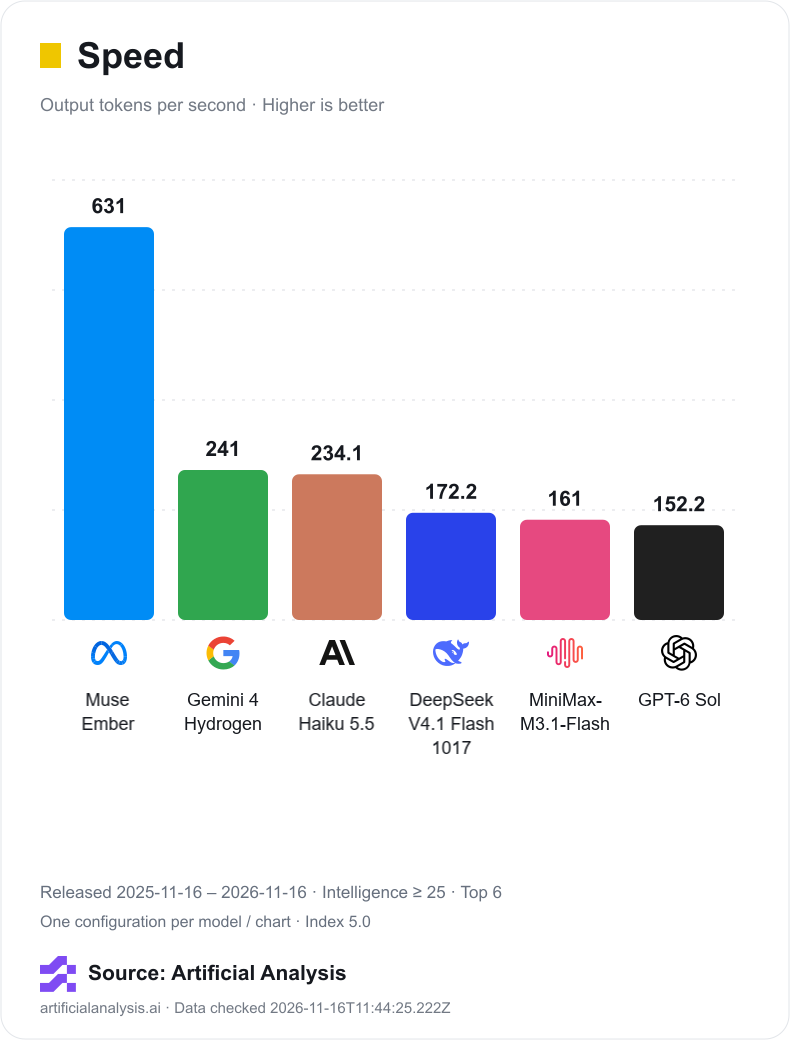
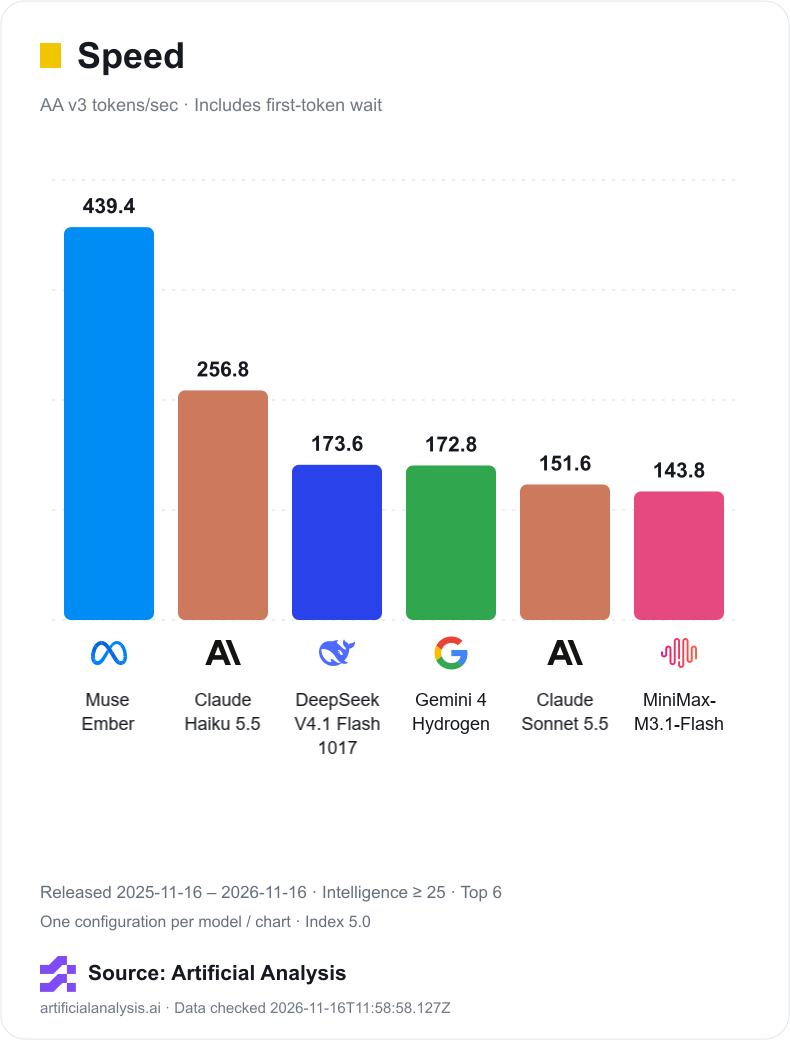
Update public intelligence d9cb8f19a0f5

diff --git a/local-preview.js b/local-preview.js
@@ -1,4 +1,4 @@
-import {capabilityLabels,measuredCatalog,hasModelMetric,filterModels,comparisonBasis,indexVersion,chartAnalysis,DEFAULT_VALUE_MIN_SCORE,estimateCost,rankingPanels} from './model-tools.js?v=bbe34fa3177e24b3d67c49f468d78ee8e26ffe798b95ec0113b7994f40209b3a';
+import {capabilityLabels,measuredCatalog,hasModelMetric,filterModels,comparisonBasis,indexVersion,chartAnalysis,DEFAULT_VALUE_MIN_SCORE,estimateCost,rankingPanels} from './model-tools.js?v=cf31fdb08bd7de38e0b5b088af714d9622508920adb6c241020eabfca84932dc';
 
 const state={fullCatalog:false,query:'',queryDraft:'',creator:'',version:'',sort:'intelligence',mode:'list',page:1,compare:[],selectionOpen:false,minimum:DEFAULT_VALUE_MIN_SCORE,share:50,costModel:'',input:100000,output:10000,runs:1,cache:0,historyPage:1,historyKind:'global_reset',rankingMetric:'intelligence',rankingVersion:'',rankingLimit:6};
 const metrics={intelligence:'综合能力',engineering:'工程指数参考',inputPrice:'输入 $/百万',outputPrice:'输出 $/百万',speed:'输出 Token/s',latency:'首字延迟 s'};
@@ -11,6 +11,7 @@ export async function validPrivateSnapshot(value){
   if(!value||value.schemaVersion!==1||value.scope!=='local-preview-only'||!stamp(value.exportedAt)||!value.models||!value.reset||!Array.isArray(value.models.rows)||value.models.rows.length>1000||!['internal','licensed-public','disabled'].includes(value.models.policy)||!Array.isArray(value.reset.events)||value.reset.events.length>200)return false;
   const validRelease=v=>v==null||typeof v==='string'&&/^\d{4}-\d{2}-\d{2}$/.test(v)&&Number.isFinite(Date.parse(v))&&new Date(v).toISOString().slice(0,10)===v;
   if(value.models.rows.some(m=>Object.keys(capabilityLabels).some(k=>m?.[k]!=null&&(!Number.isFinite(m[k])||m[k]<0))))return false;
+  if(value.models.rows.some(m=>m?.performanceVersion!==undefined&&!['v3','legacy'].includes(m.performanceVersion)))return false;
   const numeric=['intelligence','coding','agentic','math','inputPrice','outputPrice','cachedInputPrice','speed','latency'];
   if(value.models.rows.some(m=>!m||!['id','name','creator'].every(k=>typeof m[k]==='string'&&m[k].length<=250)||numeric.some(k=>m[k]!==null&&(!Number.isFinite(m[k])||m[k]<0))||!stamp(m.fetchedAt)||!stamp(m.measuredAt)||!validRelease(m.releaseDate)||m.sourceUrl!=='https://artificialanalysis.ai/data-api'||!m.brand||m.brand.src!==null&&!/^\/brands\/[a-z0-9-]+\.(?:svg|png)$/.test(m.brand.src)))return false;
   const latest=value.reset.latest;if(latest!=null&&(!stamp(latest.at)||latest.at===null||typeof latest.timeLabel!=='string'||latest.timeLabel.length>80||latest.text!==null&&(typeof latest.text!=='string'||latest.text.length>400)||latest.note!==null&&(typeof latest.note!=='string'||latest.note.length>400)||latest.url!==null&&!knownLink(latest.url)))return false;
@@ -27,7 +28,7 @@ function privateNotice(h,label,stamp,failed,isStale){return h.el('div',{classNam
 function rankingView(models,cache,h){
   const {el,select,render}=h,labels={intelligence:'综合能力'};
   const panels=rankingPanels(models,state.rankingMetric,state.rankingVersion,state.rankingLimit),result=panels.ability;
-  const charts=[{key:'ability',title:labels[state.rankingMetric],note:'近一年发布 · AA 指数 · 越高越好',...result,maximum:result.maximum*1.12},{key:'speed',title:'输出速度',note:'近一年发布 · Token / 秒 · 越高越好',...panels.speed},{key:'cost',title:'API 任务成本',note:'近一年发布 · 输入 10k / 输出 2k · USD / 次',...panels.cost}];
+  const charts=[{key:'ability',title:labels[state.rankingMetric],note:'近一年发布 · AA 指数 · 越高越好',...result,maximum:result.maximum*1.12},{key:'speed',title:'输出速度',note:models.some(m=>m.performanceVersion==='v3')?'近一年发布 · AA v3 · 包含首 Token 等待':'近一年发布 · 历史速度口径',...panels.speed},{key:'cost',title:'API 任务成本',note:'近一年发布 · 输入 10k / 输出 2k · USD / 次',...panels.cost}];
   const change=patch=>{Object.assign(state,patch,{rankingLimit:6});render();};
   const versions=result.versions.map(v=>[v,'能力指数 v'+v]);if(state.rankingVersion&&!result.versions.includes(state.rankingVersion))versions.unshift([state.rankingVersion,'所选版本已不可用']);
   const card=chart=>{
@@ -70,9 +71,9 @@ export function modelCenter(snapshot,h){
   return [rankingView(models,cache,h),privateNotice(h,'缓存采集',cache.fetchedAt,cache.failed,stale(cache.checkedAt??cache.fetchedAt,54)),el('div',{className:'local-model-intro'},el('div',{},el('h2',{},'模型数据，来自你的本地缓存。'),el('p',{className:'subdued'},models.length+' 个模型 · '+new Set(models.map(m=>m.creator)).size+' 个开发商 · 最近成功检查 '+date(cache.checkedAt))),external('https://artificialanalysis.ai/data-api','Artificial Analysis 来源与许可')),h.studentModelGuide?.(),scope,filters,
     state.query||state.creator||state.version?el('div',{className:'filter-recovery'},el('span',{},rows.length+' 个匹配模型'),el('button',{className:'button',onclick:()=>change({query:'',queryDraft:'',creator:'',version:''})},'清除模型筛选')):null,
     analysis.basis.compatible?el('div',{className:'two-column model-spotlights'},strongest?spotlight(strongest,analysis.strongest.length>1?'综合指数并列最高':'当前分组综合指数最高','综合分 '+number(strongest.intelligence)+'；不代表所有任务都最优。'):null,best?spotlight(best,'当前假设下性价比最高','能力门槛 '+state.minimum+'，输出占比 '+state.share+'%。'):null):el('p',{className:'method-note'},analysis.basis.reason+'；选择同一已知指数版本后再比较排名。'),controls,mode,
-    chosen.length?el('div',{className:'comparison-selection'},el('details',{className:'selected-models',open:state.selectionOpen,ontoggle:e=>{state.selectionOpen=e.target.open;}},el('summary',{},'已选 '+chosen.length+' / 4 · 查看与调整'),chosen.map(m=>el('div',{className:'selected-model'},identity(m,h),el('button',{className:'button','aria-label':'移除比较 '+m.name,onclick:()=>{state.compare=state.compare.filter(id=>id!==m.id);render();}},'移除')))),el('button',{className:'button',onclick:()=>{state.compare=[];render();}},'清空比较')):el('p',{className:'subdued'},'在列表中选择 2–4 个模型进行横向比较。'),comparison,content,el('p',{className:'method-note'},'缺失值显示 N/A。价格为 AA 模型级缓存，供应商、地区和服务层级未明确；API 成本与 ChatGPT/Codex 订阅额度分别计算。')];
+    chosen.length?el('div',{className:'comparison-selection'},el('details',{className:'selected-models',open:state.selectionOpen,ontoggle:e=>{state.selectionOpen=e.target.open;}},el('summary',{},'已选 '+chosen.length+' / 4 · 查看与调整'),chosen.map(m=>el('div',{className:'selected-model'},identity(m,h),el('button',{className:'button','aria-label':'移除比较 '+m.name,onclick:()=>{state.compare=state.compare.filter(id=>id!==m.id);render();}},'移除')))),el('button',{className:'button',onclick:()=>{state.compare=[];render();}},'清空比较')):el('p',{className:'subdued'},'在列表中选择 2–4 个模型进行横向比较。'),comparison,content,el('p',{className:'method-note'},'速度口径见模型详情：新采集为 AA v3，包含首 Token 等待；历史缓存保持旧口径。缺失值显示 N/A。价格为 AA 模型级缓存，供应商、地区和服务层级未明确；API 成本与 ChatGPT/Codex 订阅额度分别计算。')];
 }
-function modelList(rows,h){const {el,render,empty}=h,size=12,pages=Math.max(1,Math.ceil(rows.length/size));state.page=Math.min(state.page,pages);if(!rows.length)return empty('没有匹配的模型','调整名称、开发商或指数版本筛选。');return [el('div',{className:'table-wrap local-model-table'},el('table',{'aria-label':'本机模型缓存'},el('thead',{},el('tr',{},['比较','模型','综合','工程参考','输入 / 输出 $','Token/s'].map(t=>el('th',{},t)))),el('tbody',{},rows.slice((state.page-1)*size,state.page*size).map(m=>el('tr',{},el('td',{},el('input',{type:'checkbox',checked:state.compare.includes(m.id),disabled:state.compare.length>=4&&!state.compare.includes(m.id),'aria-label':'比较 '+m.name,onchange:e=>{state.compare=e.target.checked?[...state.compare,m.id]:state.compare.filter(id=>id!==m.id);render();}})),el('td',{},identity(m,h),el('small',{},'指数 '+(m.benchmarkVersion??'N/A'))),el('td',{},number(m.intelligence)),el('td',{},number(m.engineering??null),el('details',{},el('summary',{},'行业指数'),el('dl',{},Object.entries(capabilityLabels).map(([key,label])=>el('div',{},el('dt',{},label),el('dd',{},number(m[key]))))),el('small',{},'独立口径 · 仅供参考'))),el('td',{},number(m.inputPrice)+' / '+number(m.outputPrice)),el('td',{},number(m.speed))))))),el('div',{className:'public-pagination'},el('button',{className:'button',disabled:state.page===1,onclick:()=>{state.page--;render();}},'上一页'),el('span',{},state.page+' / '+pages+' · '+rows.length+' 个模型'),el('button',{className:'button',disabled:state.page===pages,onclick:()=>{state.page++;render();}},'下一页'))];}
+function modelList(rows,h){const {el,render,empty}=h,size=12,pages=Math.max(1,Math.ceil(rows.length/size));state.page=Math.min(state.page,pages);if(!rows.length)return empty('没有匹配的模型','调整名称、开发商或指数版本筛选。');return [el('div',{className:'table-wrap local-model-table'},el('table',{'aria-label':'本机模型缓存'},el('thead',{},el('tr',{},['比较','模型','综合','工程参考','输入 / 输出 $','Token/s'].map(t=>el('th',{},t)))),el('tbody',{},rows.slice((state.page-1)*size,state.page*size).map(m=>el('tr',{},el('td',{},el('input',{type:'checkbox',checked:state.compare.includes(m.id),disabled:state.compare.length>=4&&!state.compare.includes(m.id),'aria-label':'比较 '+m.name,onchange:e=>{state.compare=e.target.checked?[...state.compare,m.id]:state.compare.filter(id=>id!==m.id);render();}})),el('td',{},identity(m,h),el('small',{},'指数 '+(m.benchmarkVersion??'N/A')+' · '+(m.performanceVersion==='v3'?'性能 v3':'历史性能口径'))),el('td',{},number(m.intelligence)),el('td',{},number(m.engineering??null),el('details',{},el('summary',{},'行业指数'),el('dl',{},Object.entries(capabilityLabels).map(([key,label])=>el('div',{},el('dt',{},label),el('dd',{},number(m[key]))))),el('small',{},'独立口径 · 仅供参考'))),el('td',{},number(m.inputPrice)+' / '+number(m.outputPrice)),el('td',{},number(m.speed))))))),el('div',{className:'public-pagination'},el('button',{className:'button',disabled:state.page===1,onclick:()=>{state.page--;render();}},'上一页'),el('span',{},state.page+' / '+pages+' · '+rows.length+' 个模型'),el('button',{className:'button',disabled:state.page===pages,onclick:()=>{state.page++;render();}},'下一页'))];}
 function comparisonView(models,h){
   const {el}=h,basis=comparisonBasis(models);
   const head=el('thead',{},el('tr',{},el('th',{},'指标'),models.map(m=>el('th',{},identity(m,h)))));

diff --git a/app.js b/app.js
@@ -1,7 +1,7 @@
 globalThis.HUB_READING_POLICY={"ranks":{"action":3,"focus":2,"normal":1,"low":0},"labels":{"action":"需要检查","focus":"值得关注","normal":"按需阅读","low":"低优先级"},"homeLimit":3,"conditionLimit":2,"highlightLimit":3};
-import {createPublicData} from './public-data.js?v=bbe34fa3177e24b3d67c49f468d78ee8e26ffe798b95ec0113b7994f40209b3a';
-import {studentModelCheckedAt,studentModelTasks,studentModelMethod,studentCostExamples,studentCostMethod,studentCostLimit,studentPricingLinks,studentCostExampleValues,modelMetricReading,modelMetricMethod,modelMetricSources} from './model-tools.js?v=bbe34fa3177e24b3d67c49f468d78ee8e26ffe798b95ec0113b7994f40209b3a';
-import {editorialProducts,editorialProduct,productDescriptions,topicView,migrationCalendar,editorialCoverage,changeComparisons,studentCheckedAt,studentPerspective,guidesForStudent,studentTopicGuides,weeklyOverview,validPublicWeek,publicWeekStart,publicWeeklyHref} from './editorial.js?v=bbe34fa3177e24b3d67c49f468d78ee8e26ffe798b95ec0113b7994f40209b3a';
+import {createPublicData} from './public-data.js?v=cf31fdb08bd7de38e0b5b088af714d9622508920adb6c241020eabfca84932dc';
+import {studentModelCheckedAt,studentModelTasks,studentModelMethod,studentCostExamples,studentCostMethod,studentCostLimit,studentPricingLinks,studentCostExampleValues,modelMetricReading,modelMetricMethod,modelMetricSources} from './model-tools.js?v=cf31fdb08bd7de38e0b5b088af714d9622508920adb6c241020eabfca84932dc';
+import {editorialProducts,editorialProduct,productDescriptions,topicView,migrationCalendar,editorialCoverage,changeComparisons,studentCheckedAt,studentPerspective,guidesForStudent,studentTopicGuides,weeklyOverview,validPublicWeek,publicWeekStart,publicWeeklyHref} from './editorial.js?v=cf31fdb08bd7de38e0b5b088af714d9622508920adb6c241020eabfca84932dc';
 const main=document.querySelector('#main'),sidebar=document.querySelector('#sidebar');
 const storageKey='agent-intelligence-public-v1';
 const categories={'Model Release':'模型发布','ChatGPT Update':'ChatGPT 更新','Codex Feature':'Codex 功能','Codex CLI / SDK':'CLI / SDK','API Update':'API 更新','Pricing / Usage Limits':'价格与额度',Deprecation:'弃用迁移',Incident:'服务事件','Community Signal':'社区信号','Reset Signal':'Reset 信号'};
@@ -129,7 +129,7 @@ const constellationHost=el('div',{className:'public-constellation-host'});let co
 function wantsConstellation(){const r=route();return r.section==='updates'&&!r.id&&r.params.get('display')==='constellation';}
 function syncConstellation(){if(!wantsConstellation()||!constellationHost.isConnected||!data){constellationModule?.unmountConstellation();return;}
  if(constellationModule){const f=filters();constellationModule.mountConstellation(constellationHost,{rows:reportProjection(match(data.updates,f),route().params.get('star')).map(u=>({...u,reading:reading(u)})),sources:data.sources,filters:f,days:f.days||90,selected:/^[a-f0-9]{64}$/.test(route().params.get('star')??'')?route().params.get('star'):null,timezone:personal.timezone,change:filterChange,back:location.hash});return;}
- if(!constellationLoading)constellationLoading=import('./constellation.js?v=bbe34fa3177e24b3d67c49f468d78ee8e26ffe798b95ec0113b7994f40209b3a').then(module=>{constellationModule=module;syncConstellation();}).catch(()=>{constellationLoading=null;if(constellationHost.isConnected)constellationHost.replaceChildren(empty('星图暂时不可读','可以切回文字列表，或刷新页面重试。'));});
+ if(!constellationLoading)constellationLoading=import('./constellation.js?v=cf31fdb08bd7de38e0b5b088af714d9622508920adb6c241020eabfca84932dc').then(module=>{constellationModule=module;syncConstellation();}).catch(()=>{constellationLoading=null;if(constellationHost.isConnected)constellationHost.replaceChildren(empty('星图暂时不可读','可以切回文字列表，或刷新页面重试。'));});
 }
 function updateViewSwitch(){const sky=wantsConstellation();return el('div',{className:'update-view-switch','aria-label':'更新显示方式'},el('button',{className:'button '+(!sky?'primary':''),'aria-pressed':!sky,onclick:()=>filterChange({display:null,star:null})},'文字列表'),el('button',{className:'button '+(sky?'primary':''),'aria-pressed':sky,onclick:()=>filterChange({display:'constellation',days:filters().days||90})},'星图探索'));}
 function feed(section){const f=filters();if(section==='updates'&&wantsConstellation())return [updateViewSwitch(),controls(f),reportSwitch(match(data.updates,f),reportProjection(match(data.updates,f))),constellationHost];const all=match(data.updates.filter(u=>section!=='saved'||personal.saved.includes(u.id)),f),important=ordered(all.filter(u=>['action','focus'].includes(reading(u).level)));const focus=f.view!=='all'&&!f.q&&section!=='saved';const projected=section==='saved'?all:reportProjection(all);const rows=focus?ordered(projected.filter(u=>recentAttention(u).current&&['action','focus'].includes(reading(u).level))):[...projected].sort((a,b)=>String(b.publishedAt??b.fetchedAt).localeCompare(String(a.publishedAt??a.fetchedAt)));const size=focus?5:12,pages=Math.max(1,Math.ceil(rows.length/size)),page=Math.min(f.page,pages);return [
@@ -186,7 +186,7 @@ function models(){const view=publicData.models();return el('div',{className:'mod
 const starportHost=el('div',{className:'public-starport'});let starportModule=null,starportLoading=null;
 function syncStarport(){if(route().section!=='forecast'||isLocalPage()||!starportHost.isConnected){starportModule?.unmountStarport();return;}
  if(starportModule){starportModule.mountStarport(starportHost,publicData.starportSnapshot(),personal.timezone);return;}
- if(!starportLoading)starportLoading=import('./starport.js?v=bbe34fa3177e24b3d67c49f468d78ee8e26ffe798b95ec0113b7994f40209b3a').then(module=>{starportModule=module;syncStarport();}).catch(()=>{starportLoading=null;if(starportHost.isConnected)starportHost.replaceChildren(el('p',{className:'callout'},'星港资源暂时不可读，请刷新页面重试。'));});
+ if(!starportLoading)starportLoading=import('./starport.js?v=cf31fdb08bd7de38e0b5b088af714d9622508920adb6c241020eabfca84932dc').then(module=>{starportModule=module;syncStarport();}).catch(()=>{starportLoading=null;if(starportHost.isConnected)starportHost.replaceChildren(el('p',{className:'callout'},'星港资源暂时不可读，请刷新页面重试。'));});
 }
 function forecast(){return [...publicData.reset(),starportHost];}
 function settings(){return el('div',{className:'panel settings-panel settings-workspace'},el('h2',{},'你的浏览器，你的阅读习惯。'),el('p',{},'收藏、已读、主题与时区只保存在当前浏览器，不上传，也不与本地版或其他设备同步。'),el('label',{className:'settings-label'},'显示时区',select('显示时区',personal.timezone,['Asia/Taipei','Asia/Shanghai','UTC','America/New_York','Europe/London'].map(v=>[v,v]),v=>{personal.timezone=v;save();render();})),el('p',{className:'method-note'},'此浏览器也会保存上次成功读取的公开快照，打开时先显示，再后台检查更新。清除浏览器存储会移除快照及阅读状态。首次访问或页面资源未加载时仍需联网。公开页面不需要 API Key。'));}
@@ -199,7 +199,7 @@ function renderHome(section){
  const active=section==='home';homeRoot.hidden=!active;document.body.classList.toggle('home-active',active);
  if(!active){homeController?.dispose();homeController=undefined;return false;}
  document.title='AIHub · 看清 AI 的每一次变化';
- if(!homeController&&!homeLoading)homeLoading=import('./home.js?v=bbe34fa3177e24b3d67c49f468d78ee8e26ffe798b95ec0113b7994f40209b3a').then(module=>{if(route().section==='home')homeController=module.mountHome(homeRoot);}).catch(()=>{homeRoot.querySelector('#home-status').textContent='静态标志 · 入口仍可使用';}).finally(()=>{homeLoading=undefined;});
+ if(!homeController&&!homeLoading)homeLoading=import('./home.js?v=cf31fdb08bd7de38e0b5b088af714d9622508920adb6c241020eabfca84932dc').then(module=>{if(route().section==='home')homeController=module.mountHome(homeRoot);}).catch(()=>{homeRoot.querySelector('#home-status').textContent='静态标志 · 入口仍可使用';}).finally(()=>{homeLoading=undefined;});
  return true;
 }
 function render(){if(holdHomeRender)return;const {section,id}=route(),localPage=isLocalPage();if(renderHome(section)){constellationModule?.unmountConstellation();starportModule?.unmountStarport();return;}if(!wantsConstellation())constellationModule?.unmountConstellation();if(section!=='forecast'||localPage)starportModule?.unmountStarport();document.querySelector('#navigation').replaceChildren(...Object.entries(sections).map(([key,label])=>el('a',{href:'#/'+key,className:'nav-item '+(key===section?'active':''),'aria-current':key===section?'page':null,onclick:()=>setNavigation(false)},icon(key),label,key==='saved'&&personal.saved.length?el('span',{className:'nav-count'},personal.saved.length):null)));document.querySelector('#reading-navigation').replaceChildren(...[['dashboard','总览'],['updates','情报'],['topics','专题'],['models','模型'],['forecast','Reset'],['weekly','周报']].map(([key,label])=>el('a',{href:'#/'+key,'aria-current':key===section?'page':null},label)));const title=id?'更新详情':section==='topics'&&editorialProduct(filters().product)?filters().product:sections[section]??'页面不存在';document.title=title+' · Agent Intelligence Hub';document.querySelector('#breadcrumb-current').textContent=title;document.querySelector('#global-search').value=filters().q;
@@ -392,7 +392,7 @@ async function loadLocal(quiet=true){
     document.querySelector('.local-pill').replaceChildren(el('span',{className:'dot ok'}),'本机静态预览');
     const response=await fetch(new URL('./local-data.json',import.meta.url),{cache:'no-store',signal:AbortSignal.timeout(10000)});if(!response.ok)throw Error();
     const raw=await response.text();if(new TextEncoder().encode(raw).length>8*1024*1024)throw Error();
-    const next=JSON.parse(raw),module=await import('./local-preview.js?v=bbe34fa3177e24b3d67c49f468d78ee8e26ffe798b95ec0113b7994f40209b3a');if(!await module.validPrivateSnapshot(next))throw Error();
+    const next=JSON.parse(raw),module=await import('./local-preview.js?v=cf31fdb08bd7de38e0b5b088af714d9622508920adb6c241020eabfca84932dc');if(!await module.validPrivateSnapshot(next))throw Error();
     const unchanged=localCache?.contentHash===next.contentHash;localModule=module;localCache=next;localError='';
     if(!quiet)toast(unchanged?'本机缓存没有变化。':'已读取本机模型与 Reset 缓存。');
   }catch{if(localMode)localError=localCache?'本机缓存检查失败，继续显示已读取的数据。':'本机缓存暂不可读，请先完成本地同步。';}

diff --git a/home.js b/home.js
@@ -1,1 +1,1 @@
-var O="agent-intelligence-home-v1";function B(t,{dragDirection:A=1}={}){let L=t.querySelector("#home-stage"),u=t.querySelector("#home-fallback"),m=t.querySelector("#home-status"),o=t.querySelector("#home-motion"),h=t.querySelector("#home-theme"),i=t.querySelector("#home-enable"),v=t.querySelector("#home-reset"),a=matchMedia("(prefers-reduced-motion: reduce)"),g={};try{g=JSON.parse(localStorage.getItem(O)||"{}")||{}}catch{}let c=g.paused===!0,s=g.theme==="light",n,l=!1,f=!1,p=0,S=0,J=(navigator.hardwareConcurrency||8)<=4||(navigator.deviceMemory||8)<=4,N=navigator.connection?.saveData||(navigator.deviceMemory||8)<=2||(navigator.hardwareConcurrency||8)<=2,E=()=>{try{localStorage.setItem(O,JSON.stringify({paused:c,theme:s?"light":"dark"}))}catch{}};function q(e,d){e.setAttribute("aria-label",d),e.title=d}function y(){t.classList.toggle("light",s),q(h,s?"\u5207\u6362\u6DF1\u8272\u6A21\u5F0F":"\u5207\u6362\u6D45\u8272\u6A21\u5F0F"),n?.theme(s)}function r(){let e=c||a.matches;t.classList.toggle("motion-paused",e),o.setAttribute("aria-pressed",String(e)),q(o,a.matches?"\u5DF2\u51CF\u5C11\u52A8\u753B":c?"\u6062\u590D\u52A8\u753B":"\u6682\u505C\u52A8\u753B"),o.disabled=a.matches||!n,v.disabled=!n,n?.play(!e)}function w(){u.hidden=!1,m.textContent="\u9759\u6001\u6807\u5FD7 \xB7 \u5165\u53E3\u4ECD\u53EF\u4F7F\u7528",i.hidden=!1,i.disabled=!1,i.textContent="\u542F\u7528 3D",n?.dispose(),n=void 0,r()}async function b(){if(!(l||f||n)){f=!0,i.disabled=!0;try{let{createLogoScene:e}=await import("./home-model.js?v=bbe34fa3177e24b3d67c49f468d78ee8e26ffe798b95ec0113b7994f40209b3a");if(l||!t.isConnected)return;n=e(L,{intro:!c&&!a.matches,economy:J,onContextLost:w,dragDirection:A}),u.hidden=!0,i.hidden=!0,m.textContent="\u62D6\u52A8\u63A2\u7D22 \xB7 \u65B9\u5411\u952E\u65CB\u8F6C",y(),r(),C()}catch{l||w()}finally{f=!1}}}function T(){if(N){i.hidden=!1,m.textContent="\u9759\u6001\u6807\u5FD7 \xB7 \u53EF\u6309\u9700\u542F\u7528 3D";return}"requestIdleCallback"in window?p=requestIdleCallback(()=>void b(),{timeout:1200}):S=setTimeout(()=>void b(),100)}let k=new IntersectionObserver(e=>{e.some(d=>d.isIntersecting)&&(k.disconnect(),T())},{rootMargin:"120px"});k.observe(L);function C(){let e=t.querySelector(".hero").getBoundingClientRect();n?.scroll(Math.min(1,Math.max(0,-e.top/Math.max(1,e.height))))}let x=()=>{c=!c,E(),r()},I=()=>{s=!s,E(),y()},M=()=>void b(),D=()=>n?.view("three-quarter");return o.addEventListener("click",x),h.addEventListener("click",I),i.addEventListener("click",M),v.addEventListener("click",D),a.addEventListener("change",r),window.addEventListener("scroll",C,{passive:!0}),y(),r(),{dispose(){l=!0,k.disconnect(),p&&cancelIdleCallback(p),clearTimeout(S),window.removeEventListener("scroll",C),a.removeEventListener("change",r),o.removeEventListener("click",x),h.removeEventListener("click",I),i.removeEventListener("click",M),v.removeEventListener("click",D),n?.dispose(),u.hidden=!1}}}export{B as mountHome};
+var O="agent-intelligence-home-v1";function B(t,{dragDirection:A=1}={}){let L=t.querySelector("#home-stage"),u=t.querySelector("#home-fallback"),m=t.querySelector("#home-status"),o=t.querySelector("#home-motion"),h=t.querySelector("#home-theme"),i=t.querySelector("#home-enable"),v=t.querySelector("#home-reset"),a=matchMedia("(prefers-reduced-motion: reduce)"),g={};try{g=JSON.parse(localStorage.getItem(O)||"{}")||{}}catch{}let c=g.paused===!0,s=g.theme==="light",n,l=!1,f=!1,p=0,S=0,J=(navigator.hardwareConcurrency||8)<=4||(navigator.deviceMemory||8)<=4,N=navigator.connection?.saveData||(navigator.deviceMemory||8)<=2||(navigator.hardwareConcurrency||8)<=2,E=()=>{try{localStorage.setItem(O,JSON.stringify({paused:c,theme:s?"light":"dark"}))}catch{}};function q(e,d){e.setAttribute("aria-label",d),e.title=d}function y(){t.classList.toggle("light",s),q(h,s?"\u5207\u6362\u6DF1\u8272\u6A21\u5F0F":"\u5207\u6362\u6D45\u8272\u6A21\u5F0F"),n?.theme(s)}function r(){let e=c||a.matches;t.classList.toggle("motion-paused",e),o.setAttribute("aria-pressed",String(e)),q(o,a.matches?"\u5DF2\u51CF\u5C11\u52A8\u753B":c?"\u6062\u590D\u52A8\u753B":"\u6682\u505C\u52A8\u753B"),o.disabled=a.matches||!n,v.disabled=!n,n?.play(!e)}function w(){u.hidden=!1,m.textContent="\u9759\u6001\u6807\u5FD7 \xB7 \u5165\u53E3\u4ECD\u53EF\u4F7F\u7528",i.hidden=!1,i.disabled=!1,i.textContent="\u542F\u7528 3D",n?.dispose(),n=void 0,r()}async function b(){if(!(l||f||n)){f=!0,i.disabled=!0;try{let{createLogoScene:e}=await import("./home-model.js?v=cf31fdb08bd7de38e0b5b088af714d9622508920adb6c241020eabfca84932dc");if(l||!t.isConnected)return;n=e(L,{intro:!c&&!a.matches,economy:J,onContextLost:w,dragDirection:A}),u.hidden=!0,i.hidden=!0,m.textContent="\u62D6\u52A8\u63A2\u7D22 \xB7 \u65B9\u5411\u952E\u65CB\u8F6C",y(),r(),C()}catch{l||w()}finally{f=!1}}}function T(){if(N){i.hidden=!1,m.textContent="\u9759\u6001\u6807\u5FD7 \xB7 \u53EF\u6309\u9700\u542F\u7528 3D";return}"requestIdleCallback"in window?p=requestIdleCallback(()=>void b(),{timeout:1200}):S=setTimeout(()=>void b(),100)}let k=new IntersectionObserver(e=>{e.some(d=>d.isIntersecting)&&(k.disconnect(),T())},{rootMargin:"120px"});k.observe(L);function C(){let e=t.querySelector(".hero").getBoundingClientRect();n?.scroll(Math.min(1,Math.max(0,-e.top/Math.max(1,e.height))))}let x=()=>{c=!c,E(),r()},I=()=>{s=!s,E(),y()},M=()=>void b(),D=()=>n?.view("three-quarter");return o.addEventListener("click",x),h.addEventListener("click",I),i.addEventListener("click",M),v.addEventListener("click",D),a.addEventListener("change",r),window.addEventListener("scroll",C,{passive:!0}),y(),r(),{dispose(){l=!0,k.disconnect(),p&&cancelIdleCallback(p),clearTimeout(S),window.removeEventListener("scroll",C),a.removeEventListener("change",r),o.removeEventListener("click",x),h.removeEventListener("click",I),i.removeEventListener("click",M),v.removeEventListener("click",D),n?.dispose(),u.hidden=!1}}}export{B as mountHome};

diff --git a/model-tools.js b/model-tools.js
@@ -1,4 +1,4 @@
-// Shared local model algorithms 789c5a04d5caf064abbb3d9993b62bb89b4af551d62ac6e5ef678e970f535cf0
+// Shared local model algorithms 958733e10050c4818ede5c3531ea176db4b76401be2149641dd80191d3825032
 const __capabilities=(()=>{
 /** Independent AA capability indices: reference values, never inferred scores. */
 const capabilityLabels = {
@@ -343,7 +343,7 @@ const __metric_reading=(()=>{
 const modelMetricReading = [
     { key: 'intelligence', label: '综合能力', use: '初步筛选候选', check: '再用自己的代表任务验证；综合分不保证每个场景都好用。' },
     { key: 'engineering', label: '工程指数参考', use: '工程场景的辅助参考', check: '包含工程知识、推理和执行等能力，独立版本口径；不等于编程分数，未参与综合排名。' },
-    { key: 'speed', label: '输出速度', use: '长输出的生成速度', check: '首段输出后的 Token / 秒；不等于首响应等待或整个任务耗时。' },
+    { key: 'speed', label: '输出速度', use: '长输出的生成速度', check: '新版 v3 按请求全程计算 Token / 秒，包含首 Token 等待；跨工作负载取平均。历史旧口径单独标注，不代表完整工具任务耗时。' },
     { key: 'latency', label: '首 Token 延迟', use: '开始回应前的等待', check: '首 Token 可能是推理内容，不代表答案已经开始输出。' },
     { key: 'cost', label: 'API 价格', use: '按自己的用量估算', check: '核对输入、输出与缓存单价；订阅额度和工具等费用分别计算。' },
 ];
@@ -369,7 +369,7 @@ function hasModelMetric(models, key) {
 function modelCoverage(models) {
     const metrics = ['intelligence', 'engineering', 'strategyOps', 'finance', 'legal', 'healthcare', 'economics', 'coding', 'agentic', 'math', 'speed', 'inputPrice', 'outputPrice'];
     const counts = Object.fromEntries(metrics.map(key => [key, models.filter(m => typeof m[key] === 'number' && Number.isFinite(m[key]) && m[key] >= 0).length]));
-    return { total: models.length, version: measuredCatalog(models).version, counts, unavailable: metrics.filter(key => counts[key] === 0) };
+    return { performanceVersions: { v3: models.filter(m => m.performanceVersion === 'v3').length, legacy: models.filter(m => m.performanceVersion !== 'v3').length }, total: models.length, version: measuredCatalog(models).version, counts, unavailable: metrics.filter(key => counts[key] === 0) };
 }
 
 return {measuredCatalog,hasModelMetric};})();

diff --git a/index.html b/index.html
@@ -7,11 +7,11 @@
   <meta http-equiv="Content-Security-Policy" content="default-src 'self'; script-src 'self'; style-src 'self'; connect-src 'self' https://codex-reset.com/api/forecast https://codex-reset.com/api/timeline; img-src 'self' data:; object-src 'none'; base-uri 'none'; form-action 'none'">
   <meta name="color-scheme" content="light dark">
   <title>Agent Intelligence Hub</title>
-  <link rel="stylesheet" href="./styles.css?v=bbe34fa3177e24b3d67c49f468d78ee8e26ffe798b95ec0113b7994f40209b3a">
-  <link rel="stylesheet" href="./starport.css?v=bbe34fa3177e24b3d67c49f468d78ee8e26ffe798b95ec0113b7994f40209b3a">
-  <link rel="stylesheet" href="./constellation.css?v=bbe34fa3177e24b3d67c49f468d78ee8e26ffe798b95ec0113b7994f40209b3a">
-  <link rel="stylesheet" href="./home.css?v=bbe34fa3177e24b3d67c49f468d78ee8e26ffe798b95ec0113b7994f40209b3a">
-  <script type="module" src="./app.js?v=bbe34fa3177e24b3d67c49f468d78ee8e26ffe798b95ec0113b7994f40209b3a"></script>
+  <link rel="stylesheet" href="./styles.css?v=cf31fdb08bd7de38e0b5b088af714d9622508920adb6c241020eabfca84932dc">
+  <link rel="stylesheet" href="./starport.css?v=cf31fdb08bd7de38e0b5b088af714d9622508920adb6c241020eabfca84932dc">
+  <link rel="stylesheet" href="./constellation.css?v=cf31fdb08bd7de38e0b5b088af714d9622508920adb6c241020eabfca84932dc">
+  <link rel="stylesheet" href="./home.css?v=cf31fdb08bd7de38e0b5b088af714d9622508920adb6c241020eabfca84932dc">
+  <script type="module" src="./app.js?v=cf31fdb08bd7de38e0b5b088af714d9622508920adb6c241020eabfca84932dc"></script>
 <!-- Browser constellation icon license
 ISC License
 
